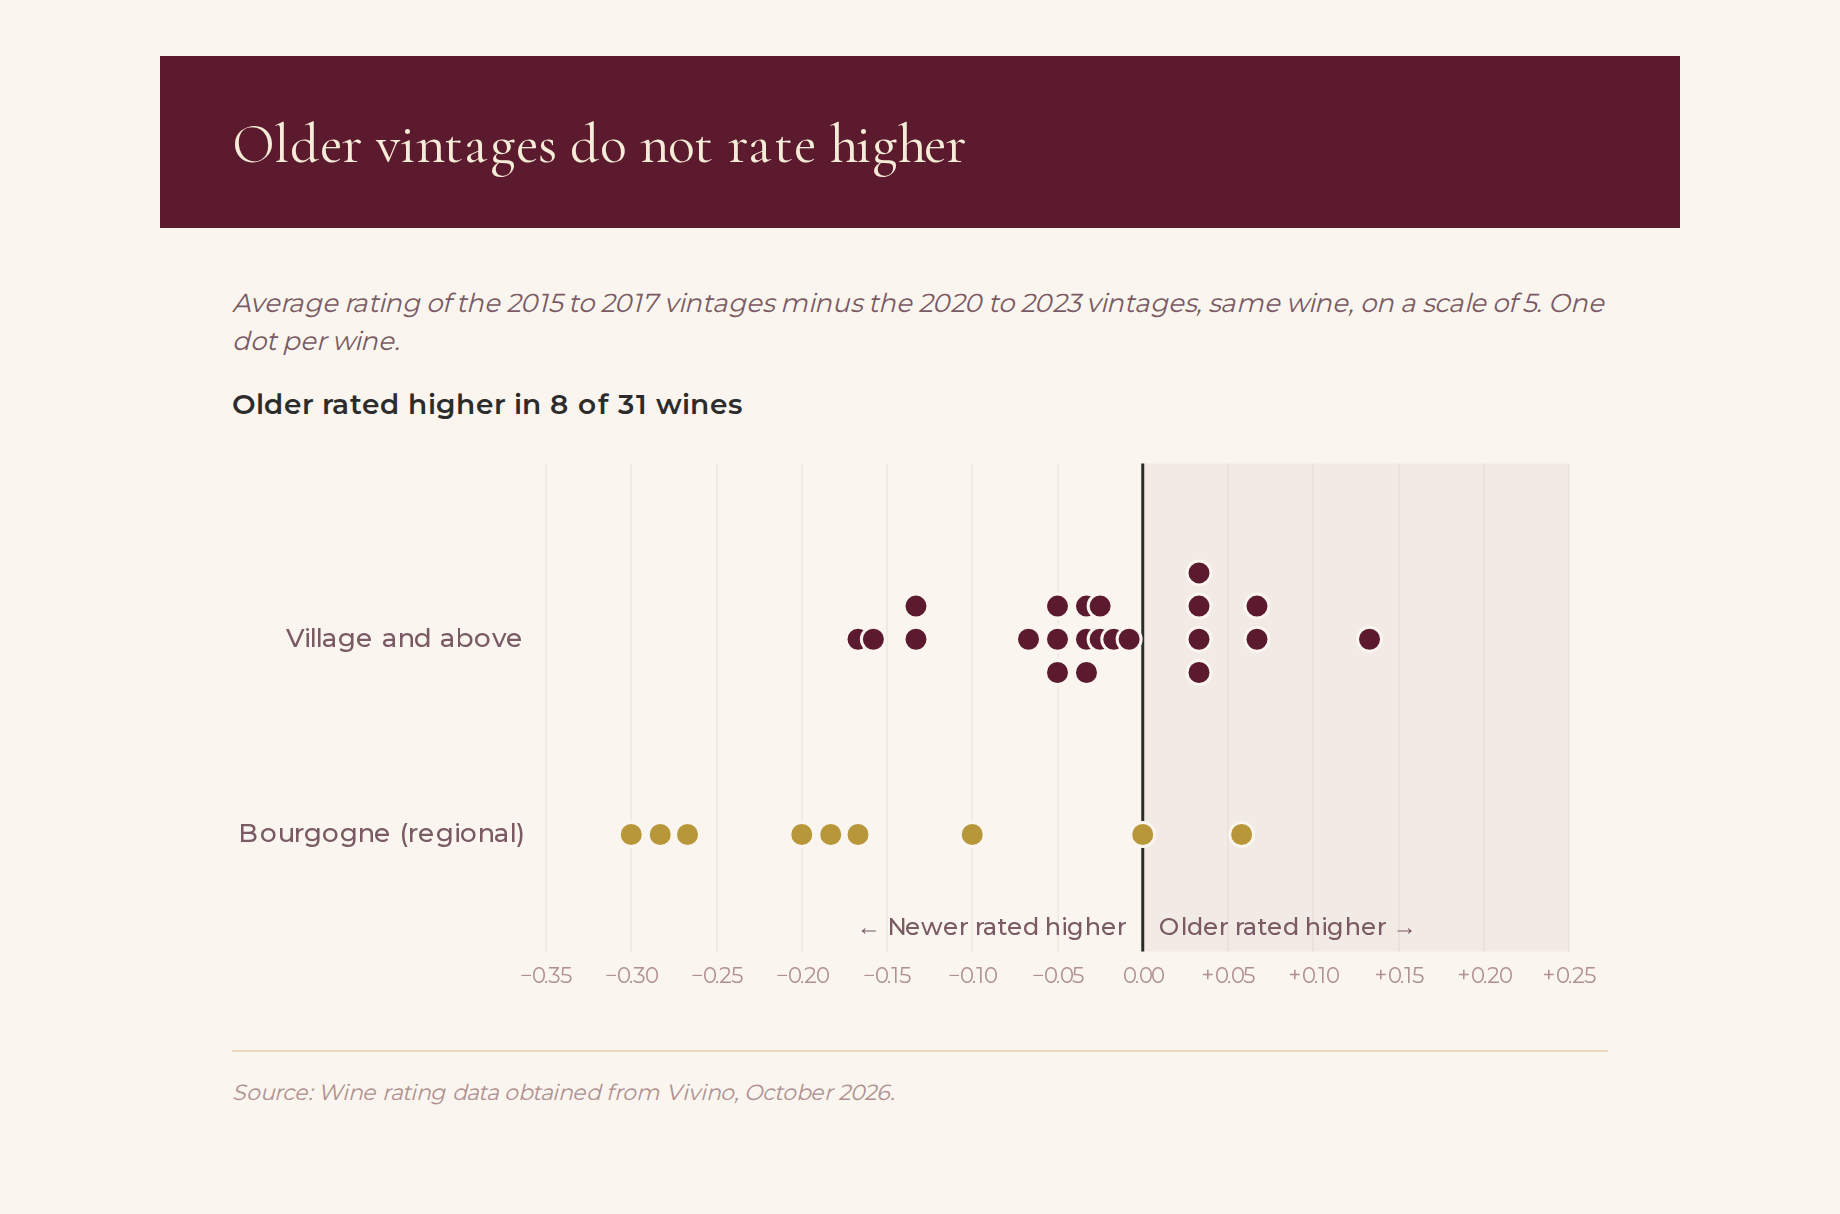
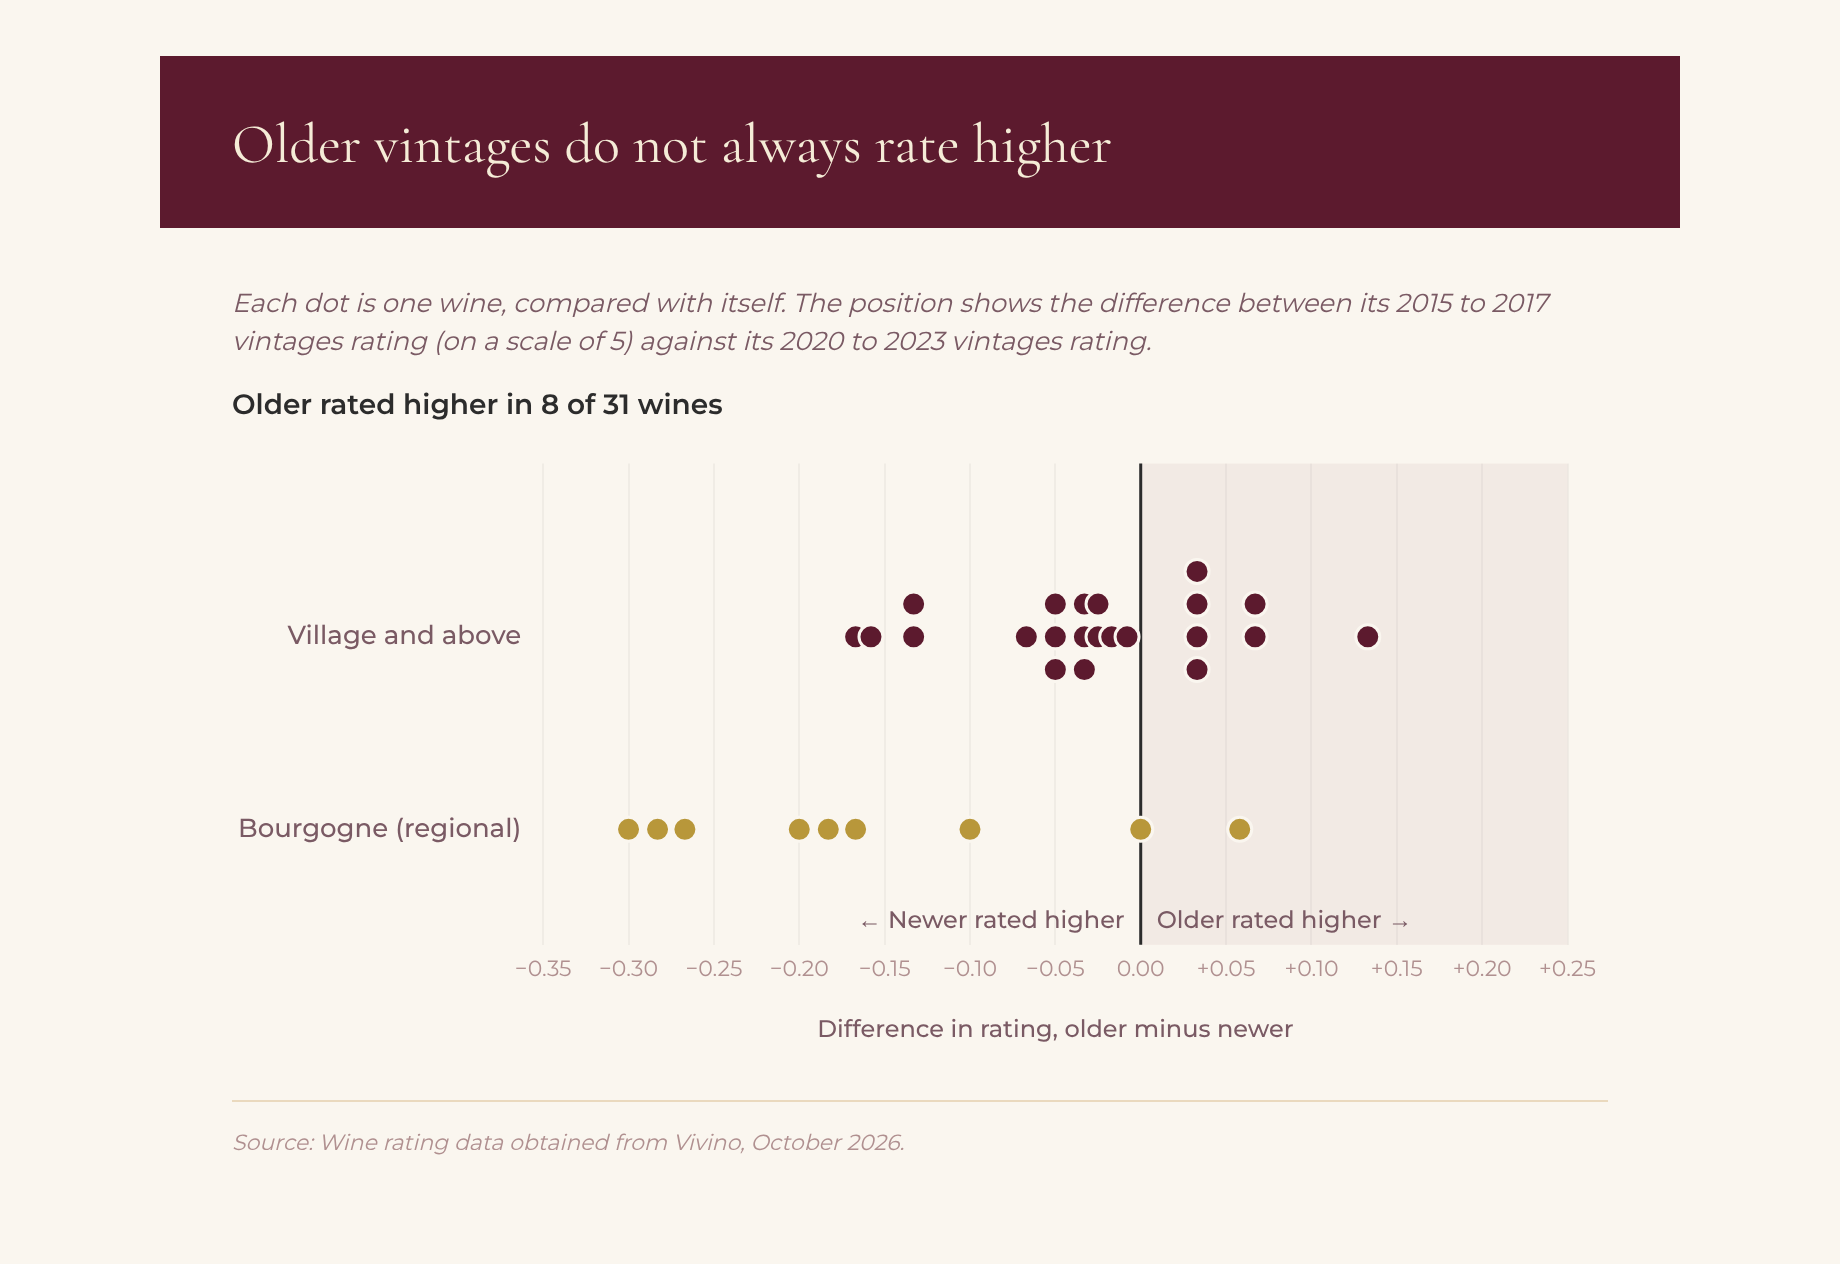
Short 01 page: older vintages chart title now 'do not always rate higher', updated static image

diff --git a/app/stories-and-trends/reading-between-the-labels/page.tsx b/app/stories-and-trends/reading-between-the-labels/page.tsx
@@ -172,7 +172,7 @@ export default function ReadingBetweenTheLabelsPage() {
 
             <VisualEmbed
               src={`${VISUALS_BASE}/visual_older_vintages.html`}
-              title="Older vintages do not rate higher"
+              title="Older vintages do not always rate higher"
               description={"Dot plot of 31 Burgundy wines comparing the Vivino rating of their 2015 to 2017 vintages with their 2020 to 2023 vintages. Most dots sit at or below zero: the older vintages rated higher in only 8 of 31 wines."}
             />
 
